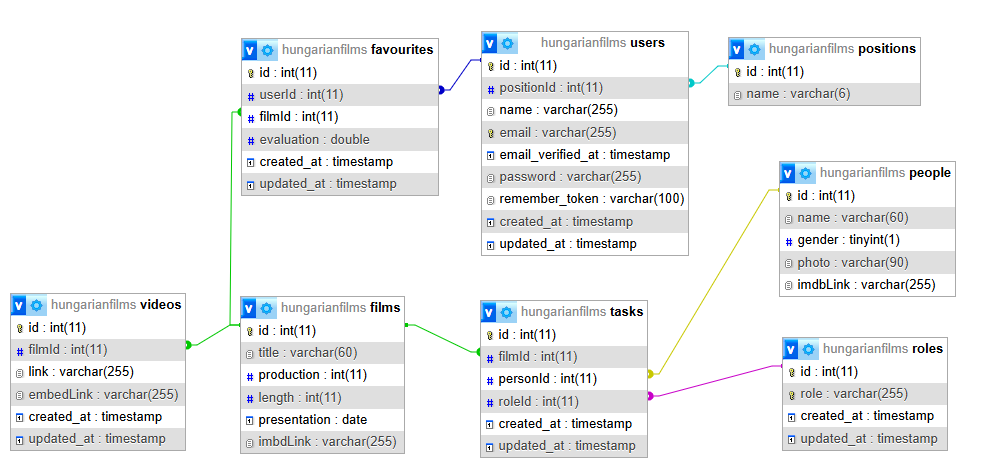
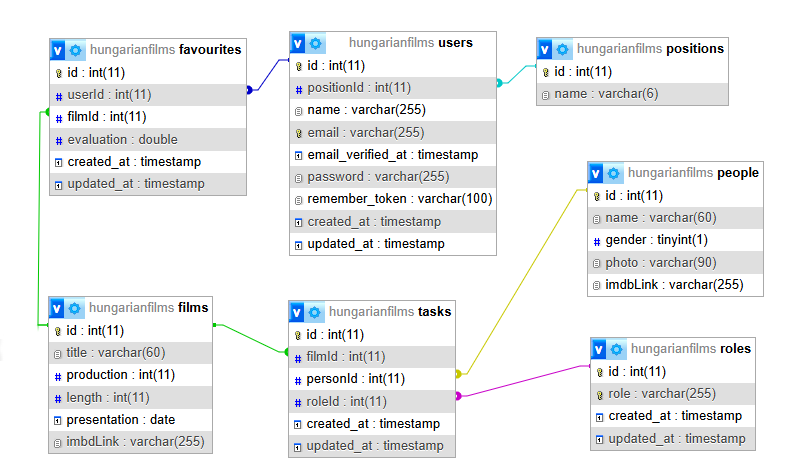
Documentáció kész.

diff --git a/Frontend/src/views/FilmsView.vue b/Frontend/src/views/FilmsView.vue
@@ -607,7 +607,11 @@ export default {
 
     // Ellenőrzi, hogy a felhasználó értékelte-e a filmet
     rated(film, userId) {
+    if (userId) {
+
       return film.usersId?.split(",").includes(userId.toString());
+    }
+    return true;
     },
 
     // Értékelés modal megnyitása

diff --git a/DatabaseLeiras.md b/DatabaseLeiras.md
@@ -1,26 +1,23 @@
 # A feladat leírása!
 - csv formátumban forrásként megkaptuk a két világhború közzött gyártott magyar filmek adatbázisát amiben a filmek és készítőik szerepőik találhatók.
-- Ezt kiegészítve, kibővítve célunk egy olyan webalkalmazás készítése ahol ezeket az adatokat szerkeszthessük kiegészítsük videólinkekkel fotókkal és imdb hivatkozásokkal.
-    - Feladatunk egy jelentős része gyűjtőmunka is lessz ahol videókat, fotókat kell megkeresni letölteni és bevinni az datbázisba.
-- Az így feltöltött adatbázis célja hogy az oldalon regisztrált felhasználó böngészhesse nézhesse a hozzátartozó videókat és egyéb hivatkozásokat valamint kigyűjthesse a neki tetsző alkotásokat egy erre kailakított felületen.
+- Ezt kiegészítve, kibővítve célunk egy olyan webalkalmazás készítése ahol ezeket az adatokat szerkeszthessük kiegészítsük fotókkal és imdb hivatkozásokkal.
+    - Feladatunk egy jelentős része gyűjtőmunka is lesz ahol, a fotókat kell megkeresni letölteni és bevinni az datbázisba.
+- Az így feltöltött adatbázis célja hogy az oldalon regisztrált felhasználó böngészhesse a filmeket valamint kigyűjthesse a neki tetsző alkotásokat egy erre kailakított felületen ahol értékelni is tudja.
 - Az alkalmazás három szerepkörre készül, amiknek megfelelő módon férhet hozzá a tartalmakhoz. 
     - Admin (az adatbázis feltöltését karbantartását végzi)
-    - Guest (böngészés, keresés valamint a kedvencek kigyűjtése)
+    - Guest (böngészés, keresés valamint a kedvencek kigyűjtése, értékelése)
     - Az oldalon nem regisztrált felhasználó csak böngészhet
 
  - A feladatot mySQL adatbázissal, laravel alapú backend, vue.js alapú frontend és a csoportmunkát git, github, a dizájnt saját css és bootstrap technológiával valósítjuk meg. 
- - A feladat megvalósításának része a backend s frontend tesztek elkészítése valamint az alkalmazás teljes dokumentációjának létrehozása
+ - A feladat megvalósításának része a backend és frontend tesztek elkészítése valamint az alkalmazás teljes dokumentációjának létrehozása
  - A feladat csoportmunkában készült.
     - Csoportvezető: Polyák Alex János
     - Csapattag: Hajdu István 
- - A projekt ütemezéséhez, feladat megosztásához, egymás közti kommunikációhoz a github projekt tervező felületét valamit a teams-t használjuk.   
+ - A projekt ütemezéséhez, feladat megosztásához, egymás közti kommunikációhoz a github projekt tervező felületét valamit a teams-t használjuk.   [Ütemezés](https://github.com/users/HajduIstvan02/projects/1)
+ 
 
 # Adatbázis
-
-
-
-
-## Diagarm
+## Diagram
 
 ![diagram](Documents/diagram.png)
 
@@ -41,12 +38,6 @@
 - lenght (hossz: a filmnek a hossza)
 - presentation (bemutato: a film kiadási éve)
 - imdbLink (a filmhez tartozó link az imdb-ről)
-
-## videos (videók)
-- id
-- filmId (ezt a films táblázatból kapja meg)
-- link (YouTube-on a linkje, de nem biztos hogy van minden filmhez)
-- embedLink (beágyazásiLink: Ez a beágyazási linkje persze ez csak akkor van ha fent van a YouTube-on)
 
 ## favourites (kedvencek)
 (a felhasználóknak a kedvenc filmjei itt lesznek találhatóak)

diff --git a/Dokumentacio.md b/Dokumentacio.md
@@ -1,0 +1,77 @@
+# A program leírása
+## Főoldal
+![](DokumentacioKepek/fooldal.png)
+
+### Films
+(Bejelentkezés nélkül)
+- megjelennek a kártyák
+    - keresni lehet és 
+    - sorrendbe rakni
+    - meg lehet nézni a film imdb-linkjét
+
+![](DokumentacioKepek/films-notLogin.png)
+
+(Bejelentkezés után)
+
+![](DokumentacioKepek/films-guest.png)
+- Itt ltható hogy a bejelentkezés után hogy néz ki az oldal de itt még nem admin szerepkörrel.
+
+(Filminfó)
+![](DokumentacioKepek/films-filminfo.png)
+
+(Bejelentkezés mint Admin)
+![](DokumentacioKepek/films-admin.png)
+- Tisztán látható hogy az admin szerepkörrel felruhászott illető tudja törölni, szerkeszteni az adott filmet, de hozzá is adhat a listába egy új filmet.
+
+(Filminfó mint admin)
+![](DokumentacioKepek/films-filminfo-admin.png)
+- A film kártyára rányomva felugrik nekünk ez az ablak ahol szerkeszteni lehet a filmnek az infoját. A stábot lehet itt pontosabban, hozzáadni, törölni és szerkeszteni.
+
+### People
+![](DokumentacioKepek/people-guest.png)
+- Ha bejelentkezett ha nem az illető ez az oldal ugyan úgy funkcionál mindkét opciónál. Itt láthatjuk a színészeket, operatőröket...stb. Akiről nem találtunk képet vagy linket azok is itt vannak. 
+
+![](DokumentacioKepek/people-admin.png)
+- Ha az illető admin szerepkörrel van ellátva akkor megjelennek neki itt is a gombok melyekkel tudja szerkeszteni az itt lévő embereket...stb.
+
+### Reviews 
+- A reviews fülre kattintva felugrik nekünk a reviews oldal. 
+    - Itt van két rész. My Reviews és All Reviews. Míg a my reviews-nél csak a saját értékelést és hozzászólást látjuk addíg az all reviews-nél a többi értékelést és hozzászólást is láthatjuk.
+    - Az guest szerepkörű személy kedve szerint törölheti és szerkesztheti a véleményét, értékelését.
+    - De aki nincs bejelentkezve az nem tud véleményezni vagy bármely hasonló jogot igénybe venni
+
+![](DokumentacioKepek/reviews-all.png)
+- All Reviews
+
+![](DokumentacioKepek/reviews-my.png)
+- My Reviews
+
+
+# Hitelesítés
+## Bejelentkezés
+- A bejelentkezéshez úgy jut el az illető rányom az Account-ra. 
+![](DokumentacioKepek/login.png)
+
+- Majd a loginra kattintva
+![](DokumentacioKepek/Login2.png)
+
+- Felugrik a login ablak
+![](DokumentacioKepek/Login3.png)
+
+## Logout
+- A logoutnál ugyan ott mint a loginnél csak a logoutra kattintva
+![](DokumentacioKepek/logout.png)
+
+## Regisztráció
+- U.A- mint a login csak annyi külömbséggel, hogy a login helyett a registration-ra nyomjunk
+![](DokumentacioKepek/regisztráció.png)
+
+- rányomva magunk előtt találhatjuk a regisztráció felületét ahol egy nevet, emailt és jelszót kell átllítani. 
+![](DokumentacioKepek/regisztacio2.png)
+
+## Profile
+- A profilban tudjuk szerkeszteni a személyes adatainkat mint pl.: email cím, jelszó...stb
+![](DokumentacioKepek/profil.png)
+
+- A profil szerkesztésének felülete
+![](DokumentacioKepek/profil2.png)
